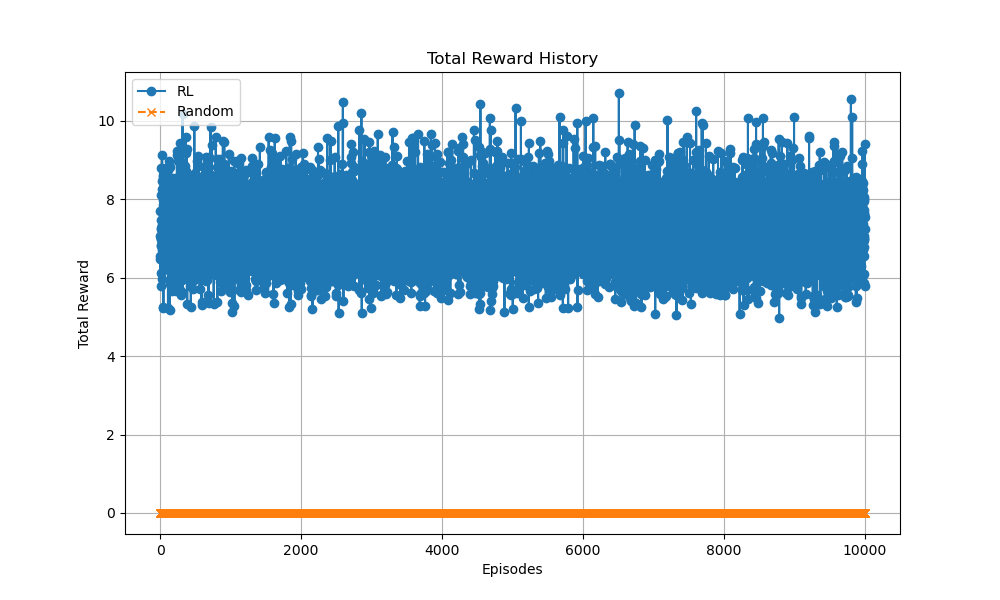
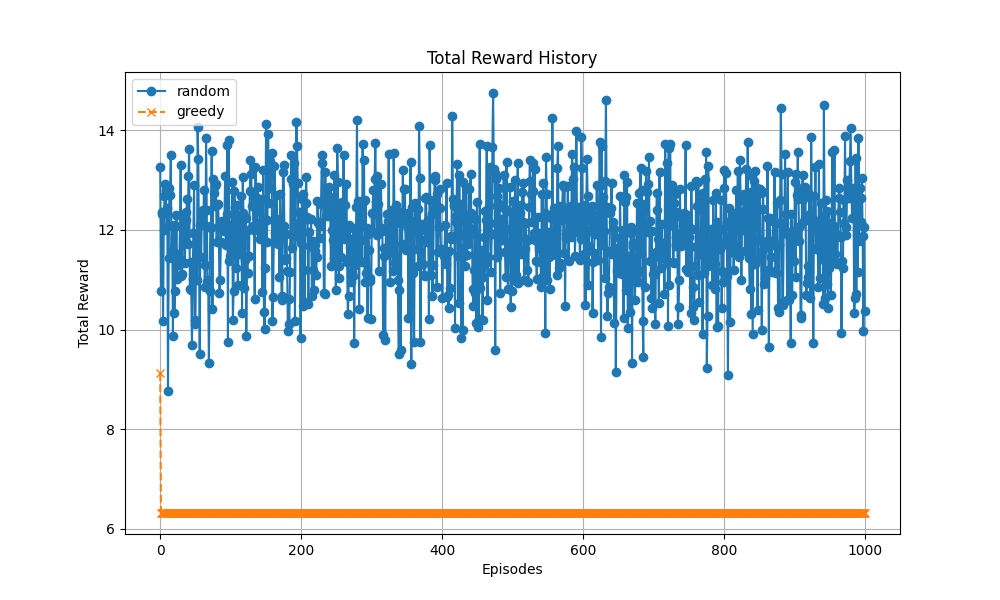
ランダムサンプルと貪欲法で推論できるように改修

diff --git a/policy_reinforce-b_transformer_linear/inference.py b/policy_reinforce-b_transformer_linear/inference.py
@@ -7,10 +7,12 @@ sys.path.append(os.path.abspath(os.path.join(os.path.dirname(__file__), '..')))
 
 from env.env import TSPEnv
 from agent.agent import Agent
-import json
+from agent.baseline import BaseLine
+import copy
 import argparse
 import sys
 from config import environment, inference
+import utils
 
 # n=48
 # input_data = np.array([
@@ -96,139 +98,116 @@ input_data = np.array([
 # B×N×D に reshape（B=1）
 input_data = input_data[np.newaxis, :, :]  # shape = (1, 25, 2)
 
-def plot_route(reward_history):
-    # 最小トータルリワードのエピソードを取得
-    best_episode = max(reward_history, key=lambda x: x["total_reward"])
-    best_reward = best_episode["total_reward"]
-    best_order = best_episode["visit_orders"]
-    visit_order_list = [v.item() for v in best_order]
-    print(f"visit_order_list: {visit_order_list}")
-    print(f'best_reward: {best_reward}')
-
-    # 訪問順序の最初と最後に 0 を追加して巡回経路にする
-    best_order.append(best_order[0])
-    
-    # バッチ次元を除いて扱う
-    input_coords = input_data[0]  # shape: (25, 2)
-    
-    # 訪問順序に基づく座標を取得
-    ordered_coords = [input_coords[i] for i in best_order]
-
-    # プロットの作成
-    plt.figure(figsize=(6, 6))
-    plt.scatter(input_coords[:, 0], input_coords[:, 1], color='red', label='Cities')
-    plt.plot(*zip(*ordered_coords), marker='o', linestyle='-', color='blue', label='Best Route')
-
-    # 各都市にラベルを付与
-    for i, (x, y) in enumerate(input_coords):
-        plt.text(x, y, str(i), fontsize=12, verticalalignment='bottom', horizontalalignment='right')
-
-    plt.xlabel('X Coordinate')
-    plt.ylabel('Y Coordinate')
-    plt.title(f'Best Route with Total Reward: {-1 * best_reward}')
-    plt.legend()
-    plt.grid(True)
-    plt.savefig(f"./route/Best Route")
-    plt.close()  # 状態をリセット（重要）
-
-def plot_reward_history(reward_history_rl, reward_history_random):
-    plt.figure(figsize=(10, 6))
-    plt.plot(reward_history_rl, label='RL', linestyle='-', marker='o')
-    plt.plot(reward_history_random, label='Random', linestyle='--', marker='x')
-    
-    plt.xlabel('Episodes')
-    plt.ylabel('Total Reward')
-    plt.title('Total Reward History')
-    plt.legend()
-    plt.grid(True)
-    plt.savefig(f"./route/Best Route Reward History")
-    plt.close()  # 状態をリセット（重要）
-
-def calc_distance_random_order(input_data):
-    # 訪問順序をランダムに生成
-    n_cities = len(input_data)
-    visit_orders = np.random.permutation(n_cities)
-    visit_orders = np.append(visit_orders, visit_orders[0])  # 最初の都市に戻る
-
-    # 訪問順序に基づく座標を取得
-    ordered_coords = [input_data[i] for i in visit_orders]
-
-    # 総移動距離の計算
-    total_distance = 0
-    for i in range(n_cities):
-        total_distance += np.linalg.norm(ordered_coords[i] - ordered_coords[i + 1])
-
-    return total_distance
-
-
 def main(model_path='save/model.pth', episodes=100, plot=True):
     # 同名の .json ファイルからパラメータ読み込み
-    config_path = model_path.replace(".pth", ".json")
-    with open(config_path, "r") as f:
-        config = json.load(f)
+    if os.path.exists(model_path):
+        config = utils.load_config(model_path)
 
-    # config を使ってAgent構築
+    # config を使ってAgentとbaseline構築
     agent = Agent(
         lr=config["lr"],
         gamma=config["gamma"]
     )
-    env = TSPEnv(batch_size=inference["batch_size"], n_cities=environment["num_cities"], fixed_coords=input_data)
+    baseline = BaseLine(
+        lr=config["lr"],
+        gamma=config["gamma"]
+    )
+
+    # agent用の環境を初期化
+    env = TSPEnv(
+        batch_size=inference["batch_size"], 
+        n_cities=environment["num_cities"], 
+        fixed_coords=input_data
+    )
     env.generate_coords()
-    reward_history = []
+    # baseline用の環境を初期化
+    baseline_env = TSPEnv(
+        batch_size=inference["batch_size"], 
+        n_cities=environment["num_cities"], 
+        fixed_coords=input_data
+    )
+    baseline_env.generate_coords()
+
+    reward_history_greedy = []
     reward_history_random = []
 
     # 保存済みモデルをロード
     agent.load_model(model_path)
+    baseline.model.load_state_dict(copy.deepcopy(agent.model.state_dict()))
 
     for episode in range(episodes):
         # print('episode:', episode)
+        # 1. AgentとBaselineの環境をリセット
         data, visited_cities = env.reset()
+        baseline_data, visited_cities_baseline = baseline_env.reset()        
+
+        # 2. encoder_forwardを実行
         agent.encoder_forward(data)
-        done = False
-        total_reward = 0
-        visit_orders = []
+        baseline.encoder_forward(baseline_data)
 
-        while not done:
+        # doneフラグの初期化
+        agent_done = False
+        baseline_done = False
+
+        random_reward = 0
+        random_visit_orders = []
+        greedy_reward = 0
+        greedy_visit_orders = []
+        
+        # agentの推論
+        while not agent_done:
             action, probs = agent.get_action(visited_cities)
-            visit_orders.append(action)
-            next_visited_cities, reward, done = env.step(action)
+            random_visit_orders.append(action)
+            next_visited_cities, reward, agent_done = env.step(action)
             
-            total_reward += reward
+            random_reward += reward
             visited_cities = next_visited_cities
+        
+        # baselineの推論
+        while not baseline_done:
+            action, probs = baseline.get_action(visited_cities_baseline)
+            greedy_visit_orders.append(action)
+            next_visited_cities, reward, baseline_done = baseline_env.step(action)
+            
+            greedy_reward += reward
+            visited_cities_baseline = next_visited_cities
+        
+        # ランダムサンプリングの結果を保存
+        reward_history_random.append({
+            "total_reward": random_reward,
+            "visit_orders": random_visit_orders
+        })
 
-        reward_history.append({
-            "total_reward": total_reward,
-            "visit_orders": visit_orders
-            })
+        # greedyサンプリングの結果を保存
+        reward_history_greedy.append({
+            "total_reward": greedy_reward,
+            "visit_orders": greedy_visit_orders
+        })
 
-        # print(f'Episode: {episode}, Total Reward: {total_reward}')
-        # print(f'visit_orders:{visit_orders}')
-
-        # ランダムな訪問順序の総移動距離を計算
-        total_distance_random = calc_distance_random_order(input_data)
-        reward_history_random.append(total_distance_random)
-
-        # print(f'Episode: {episode}, Total Reward Random: {total_distance_random}')
-    
     # データの準備
-    reward_history_rl = [-1 * r["total_reward"] for r in reward_history]
-    reward_history_random = reward_history_random
+    random_reward_results = [-1 * r["total_reward"] for r in reward_history_random]
+    greedy_reward_results = [-1 * r["total_reward"] for r in reward_history_greedy]
 
     # Best Modelでグラフをプロット
     if plot:
-        plot_route(reward_history)  # 最短経路のプロット
-        plot_reward_history(reward_history_rl, reward_history_random)
+        utils.plot_route(input_data, reward_history_random, "random")  # ランダムサンプリングの最短経路のプロット
+        utils.plot_route(input_data, reward_history_greedy, "greedy")  # Greedyサンプリングの最短経路のプロット
+        utils.plot_reward_history(random_reward_results, greedy_reward_results)
 
-    min_reward = min(reward_history_rl)  # 最小値
-    # mean_reward = np.mean(reward_history_rl) 
-    print(float(min_reward.item()))  # 文字列入れない、optunaでエラーになる
+    random_min_reward = min(random_reward_results)  # ランダムサンプリングの最小値
+    greedy_min_reward = min(greedy_reward_results)  # Greedyサンプリングの最小値
+    print(f"Random Sampling Min Reward: {random_min_reward}")
+    print(f"Greedy Sampling Min Reward: {greedy_min_reward}")
+    
+    # optuna対応
+    # print(float(min_reward.item()))  # 文字列入れない、optunaでエラーになる
 
 
 if __name__ == '__main__':
     parser = argparse.ArgumentParser()
     parser.add_argument("model_path", nargs='?', default="save/model.pth")
     parser.add_argument("--plot", action="store_true", help="プロットを表示するかどうか")
-    parser.add_argument("--episodes", type=int, default=10000)
+    parser.add_argument("--episodes", type=int, default=1000)
     args = parser.parse_args()
 
     main(args.model_path, args.episodes, plot=args.plot)

diff --git a/policy_reinforce-b_transformer_linear/utils.py b/policy_reinforce-b_transformer_linear/utils.py
@@ -1,7 +1,9 @@
 import torch
 import json
+import numpy as np
+import matplotlib.pyplot as plt
 
-
+@staticmethod
 def get_device():    
     # デバイスの定義 (GPUが利用可能であればGPUを使う)
     if torch.backends.mps.is_available():  # M1/M2チップのMetal API（GPU）対応
@@ -12,7 +14,7 @@ def get_device():
         device = torch.device("cpu")  # CPU
     return device
 
-
+@staticmethod
 def save_config(lr, gamma, save_path):
     """
     設定をJSON形式で保存する関数
@@ -24,6 +26,87 @@ def save_config(lr, gamma, save_path):
     json_path = save_path.replace(".pth", ".json")
     with open(json_path, "w") as f:
         json.dump(config, f)
+
+@staticmethod
+def load_config(model_path):
+    """
+    モデルの設定をJSONファイルから読み込む関数
+    :param model_path: モデルのパス（.pthファイル）
+    :return: 設定辞書
+    """
+    config_path = model_path.replace(".pth", ".json")
+    with open(config_path, "r") as f:
+        config = json.load(f)
+    return config
+
+@staticmethod
+def plot_route(input_data, reward_history, type):
+    # 最小トータルリワードのエピソードを取得
+    best_episode = max(reward_history, key=lambda x: x["total_reward"])
+    best_reward = best_episode["total_reward"]
+    best_order = best_episode["visit_orders"]
+    visit_order_list = [v.item() for v in best_order]
+    print(f"visit_order_list: {visit_order_list}")
+    print(f'best_reward: {best_reward}')
+
+    # 訪問順序の最初と最後に 0 を追加して巡回経路にする
+    best_order.append(best_order[0])
+    
+    # バッチ次元を除いて扱う
+    input_coords = input_data[0]  # shape: (25, 2)
+    
+    # 訪問順序に基づく座標を取得
+    ordered_coords = [input_coords[i] for i in best_order]
+
+    # プロットの作成
+    plt.figure(figsize=(6, 6))
+    plt.scatter(input_coords[:, 0], input_coords[:, 1], color='red', label='Cities')
+    plt.plot(*zip(*ordered_coords), marker='o', linestyle='-', color='blue', label='Best Route')
+
+    # 各都市にラベルを付与
+    for i, (x, y) in enumerate(input_coords):
+        plt.text(x, y, str(i), fontsize=12, verticalalignment='bottom', horizontalalignment='right')
+
+    plt.xlabel('X Coordinate')
+    plt.ylabel('Y Coordinate')
+    plt.title(f'Best Route with Total Reward {type}: {-1 * best_reward}')
+    plt.legend()
+    plt.grid(True)
+    plt.savefig(f"./route/Best Route {type}")
+    plt.close()  # 状態をリセット（重要）
+
+@staticmethod
+def plot_reward_history(random_reward_history, greedy_reward_history):
+    plt.figure(figsize=(10, 6))
+    plt.plot(random_reward_history, label='random', linestyle='-', marker='o')
+    plt.plot(greedy_reward_history, label='greedy', linestyle='--', marker='x')
+    
+    plt.xlabel('Episodes')
+    plt.ylabel('Total Reward')
+    plt.title('Total Reward History')
+    plt.legend()
+    plt.grid(True)
+    plt.savefig(f"./route/Best Route Reward History")
+    plt.close()  # 状態をリセット（重要）
+
+@staticmethod
+def calc_distance_random_order(input_data):
+    # 訪問順序をランダムに生成
+    n_cities = len(input_data)
+    visit_orders = np.random.permutation(n_cities)
+    visit_orders = np.append(visit_orders, visit_orders[0])  # 最初の都市に戻る
+
+    # 訪問順序に基づく座標を取得
+    ordered_coords = [input_data[i] for i in visit_orders]
+
+    # 総移動距離の計算
+    total_distance = 0
+    for i in range(n_cities):
+        total_distance += np.linalg.norm(ordered_coords[i] - ordered_coords[i + 1])
+
+    return total_distance
+
+
 
 
 
